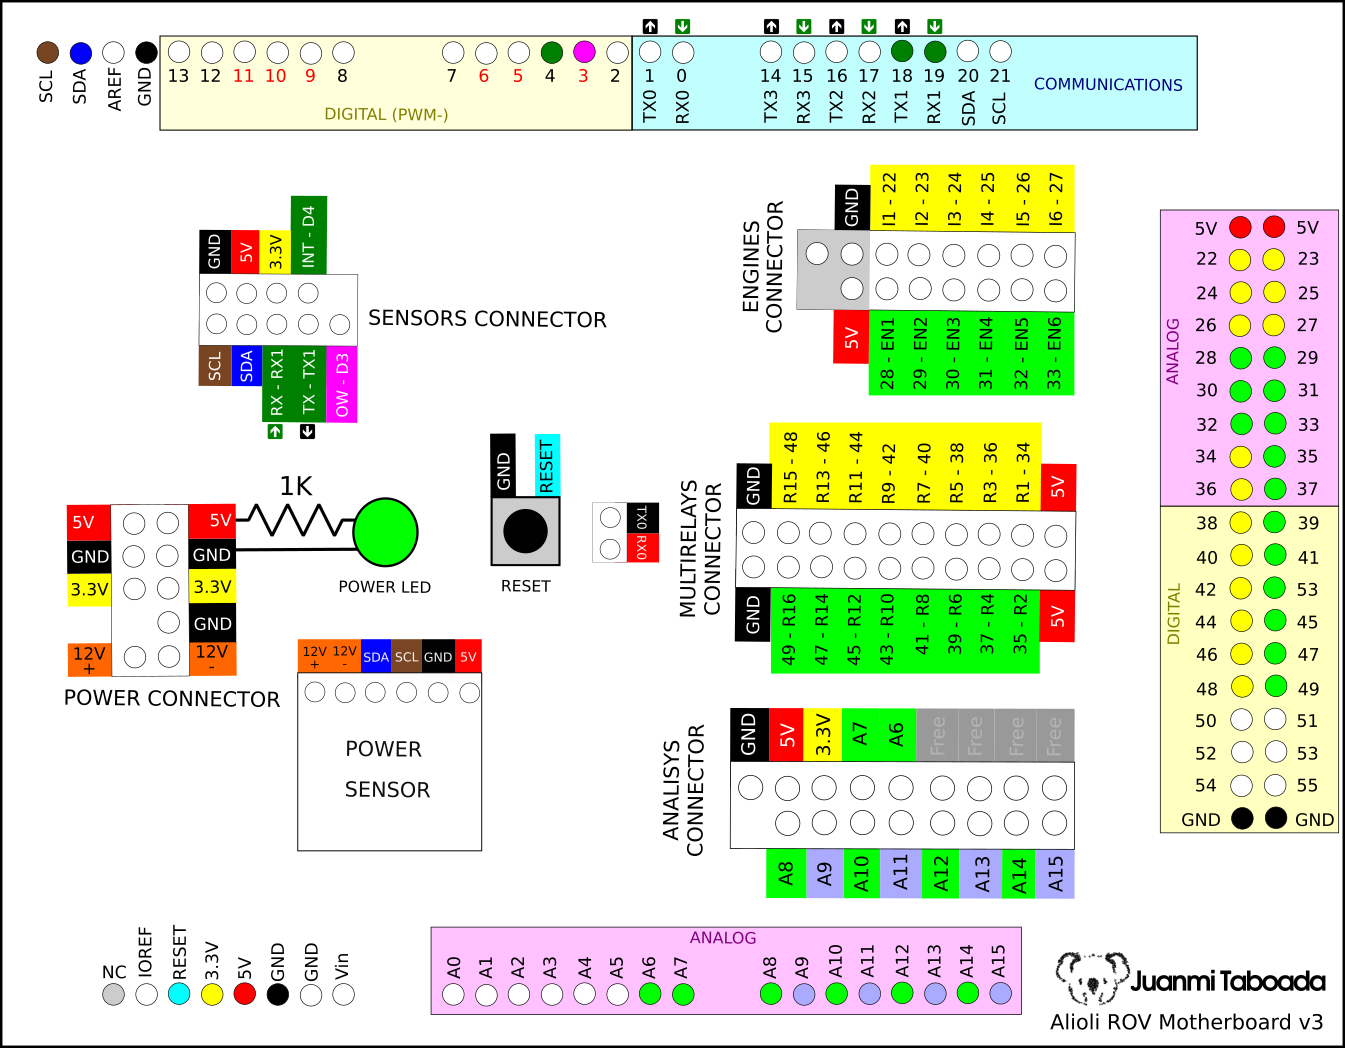
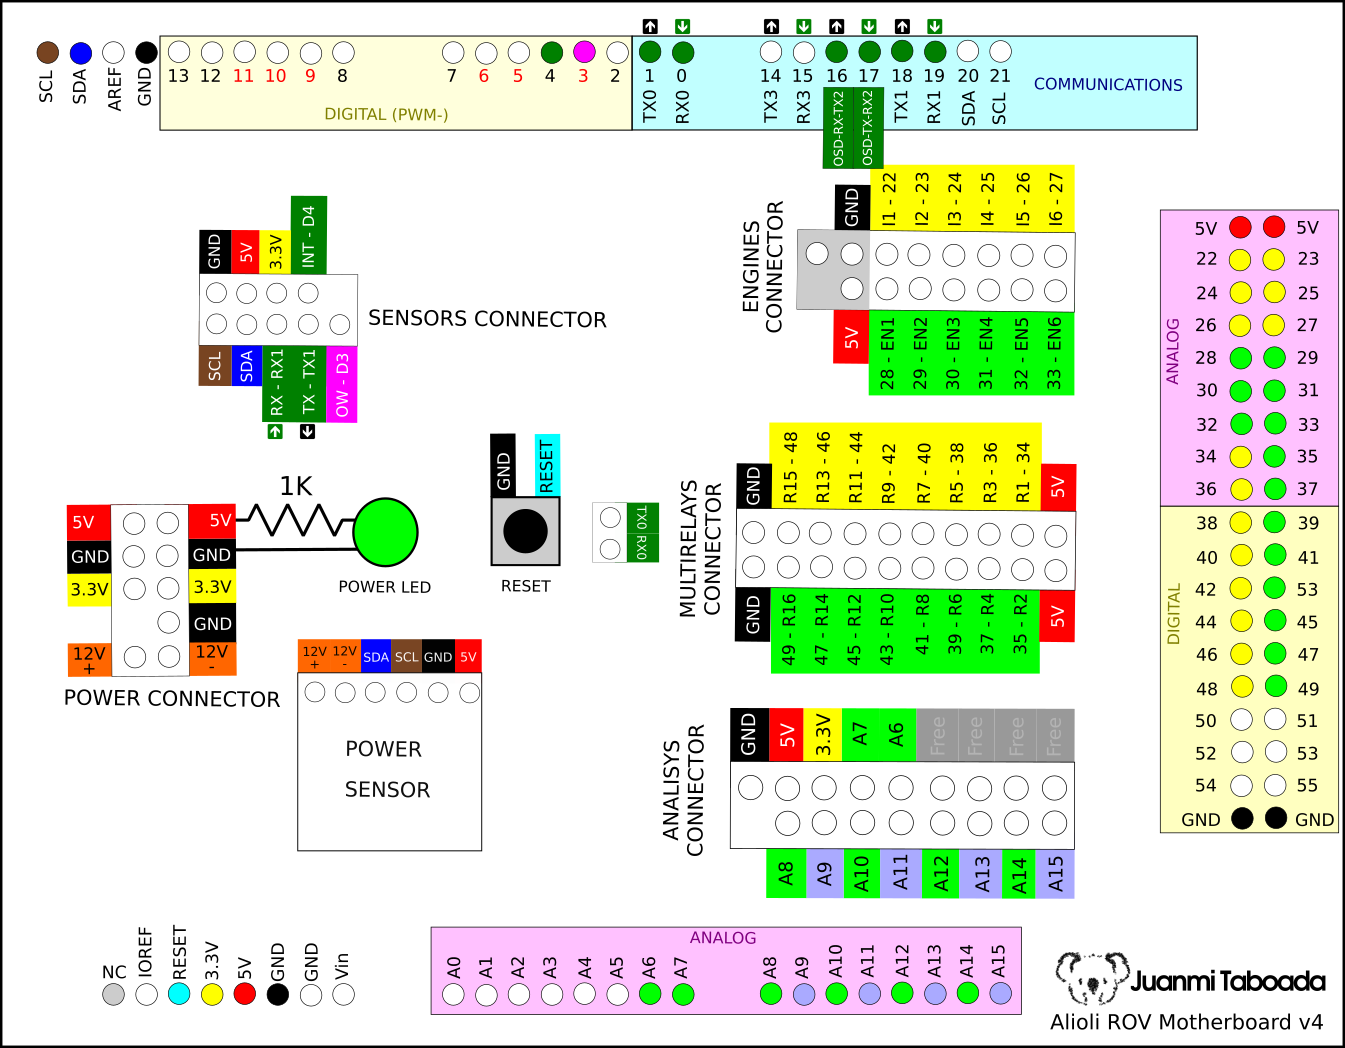
ODS works

Changed region(s): [[0.5933, 0.0305, 0.6558, 0.1832], [0.4684, 0.458, 0.4996, 0.5496], [0.4684, 0.0305, 0.5309, 0.0611]]

diff --git a/rov/src/lib/config.h b/rov/src/lib/config.h
@@ -22,6 +22,7 @@
 #define DEBUG_TRANSMISSION 0
 #define DEBUG_TRANSMISSION_MSG 0
 #define DEBUG_COMMUNICATION 0
+#define DEBUG_OSD 1
 
 // Lookups
 // #define PAD_LOOKUP_MS 500
@@ -32,6 +33,8 @@
 #define BRAIN_LOOKUP_MS 500
 #define ANALISYS_LOOKUP_MS 500
 #define BUOYANCY_LOOKUP_MS 500
+// #define OSD_LOOKUP_MS 5000
+#define OSD_LOOKUP_MS 500
 
 // PAD
 // #define PAD 0
@@ -71,11 +74,6 @@
 
 // Pressure
 #define PRESSURE_SENSOR_ADDRESS 0x76
-
-// Transmission
-// Valid speed (baud rates): 300, 600, 1200, 2400, 4800, 9600, 14400, 19200, 28800, 31250, 38400, 57600, and 115200
-#define SERIAL1_PINOUT 4            // Serial 1 digital pin connected to DE
-#define SERIAL1_SPEED 115200        // Serial 1 port speed or baud rates
 
 // Buoyancy position:
 //          ^           
@@ -126,9 +124,12 @@
 
 // Transmission
 // Valid speed (baud rates): 300, 600, 1200, 2400, 4800, 9600, 14400, 19200, 28800, 31250, 38400, 57600 and 115200
-#define SERIAL1_SPEED 115200
-#define SERIAL1_CTRLPIN 4     // Serial 1 pin for control the status of the module
+#define SERIAL1_PINOUT 4            // Serial 1 digital pin connected to DE
+#define SERIAL1_SPEED 115200        // Serial 1 port speed or baud rates
+#define SERIAL1_CTRLPIN 4           // Serial 1 pin for control the status of the module
+#define SERIAL2_SPEED 57600         // Serial 2 pin for control the MiniMicroOSD module
 #define TRANSMISSION_MS 0
 #define RS485_SERIAL 1
+#define OSD_SERIAL 2
 
 #endif

diff --git a/common/protocol.h b/common/protocol.h
@@ -106,9 +106,9 @@ typedef struct TAcelerometer {
     // int GyX;
     // int GyY;
     // int GyZ;
-    float angx;
-    float angy;
-    float angz;
+    float roll;     // Roll
+    float pitch;    // Pitch
+    float yaw;      // Heading or Yaw
 } Acelerometer;
 
 typedef struct TWaterAnalisys {
@@ -124,9 +124,9 @@ typedef struct TEnvironment {
     float altitude;
     float pressure;
     float temperaturegy;    // Temperature Gyroscope
-    float temperature1;     // Sensor
-    float temperature2;     // Sensor
-    float temperaturebmp;   // BMP Sensor
+    float temperature1;     // Battery Temperature
+    float temperature2;     // Water Temperature
+    float temperaturebmp;   // Internal Temperature (BMP Sensor)
     float voltage;          // INA Sensor (Power sensor)
     float amperage;         // INA Sensor (Power sensor)
     Acelerometer acelerometer;

diff --git a/rov/src/transmission/osd.h b/rov/src/transmission/osd.h
@@ -1,0 +1,15 @@
+#ifndef OSD_H
+#define OSD_H
+
+#include "lib/constants.h"
+#include "mavlink/alioli/mavlink.h"
+
+struct TOSDConfig {
+    long int nextevent;
+};
+typedef struct TOSDConfig OSDConfig;
+
+void osd_setup(long int now);
+void osd_loop(long int now);
+
+#endif

diff --git a/rov/src/transmission/transmission.h b/rov/src/transmission/transmission.h
@@ -3,9 +3,6 @@
 
 struct TTransmissionConfig {
     long int nextevent;
-    char *mavlink_buf;
-    unsigned int mavlink_buf_size;
-    unsigned int mavlink_buf_allocated;
 };
 typedef struct TTransmissionConfig TransmissionConfig;
 

diff --git a/rov/src/lib/constants.h b/rov/src/lib/constants.h
@@ -7,7 +7,7 @@
 #define TIMEOUT_RS485_MS 0
 #define TRANSFER_RS485_WAIT_MS 0
 
-#define MAVLINK_SYSID 1
-#define MAVLINK_COMPID 2
+#define OSD_MAVLINK_SYSID 1
+#define OSD_MAVLINK_COMPID 1
 
 #endif
